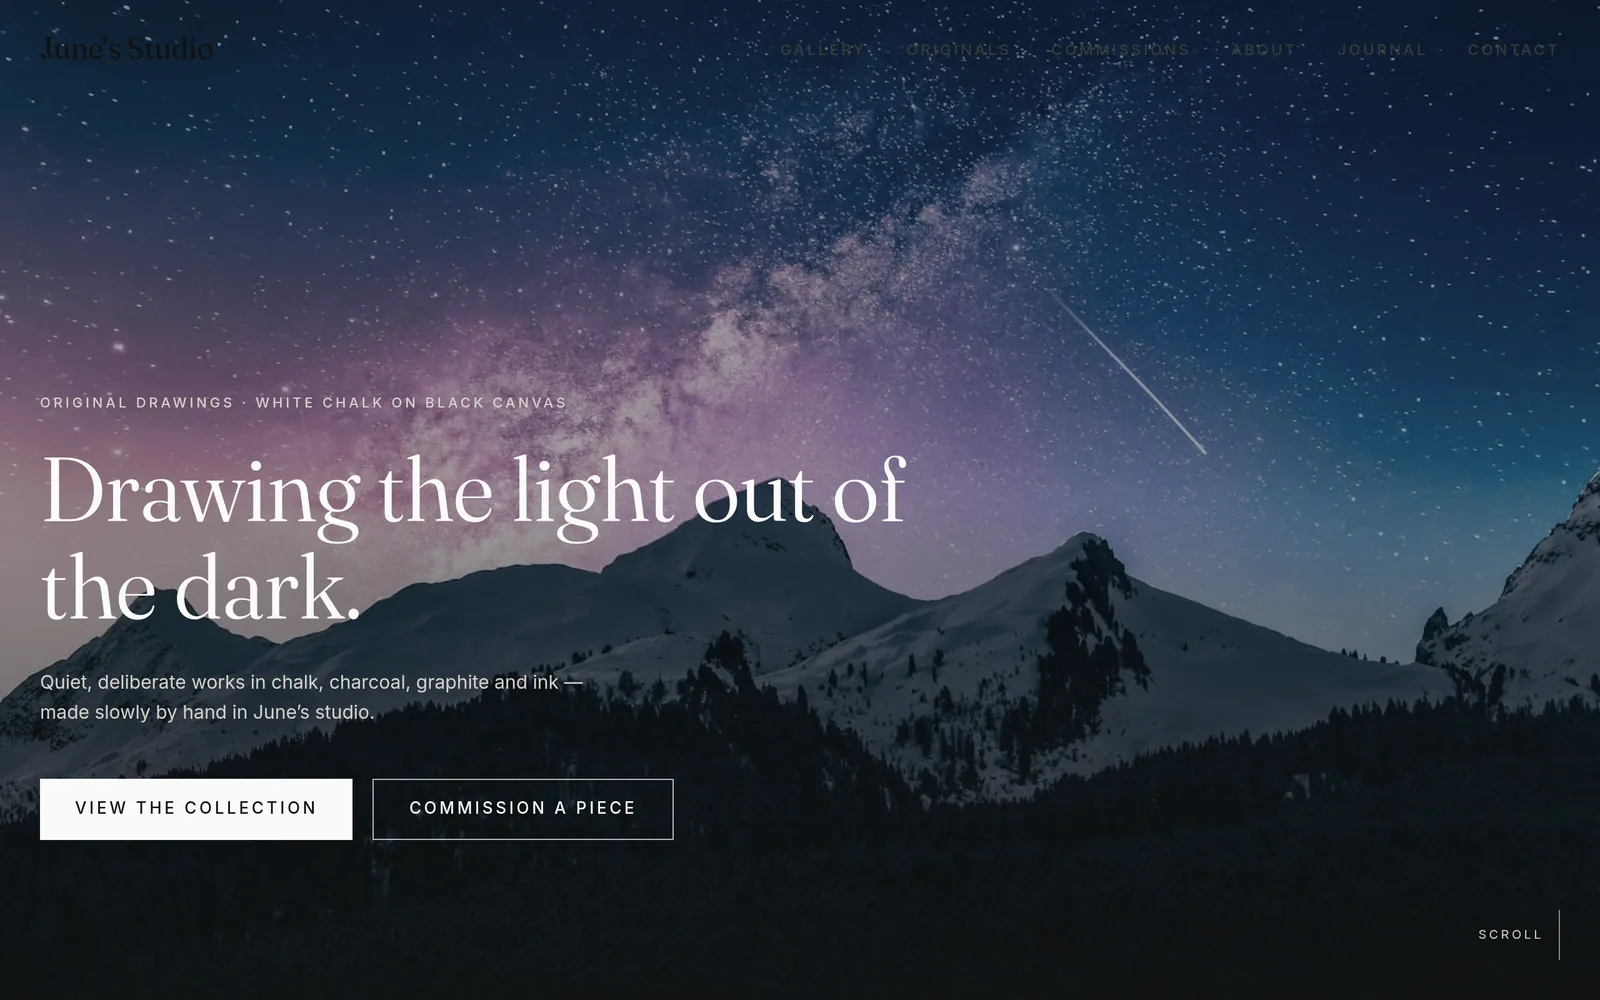
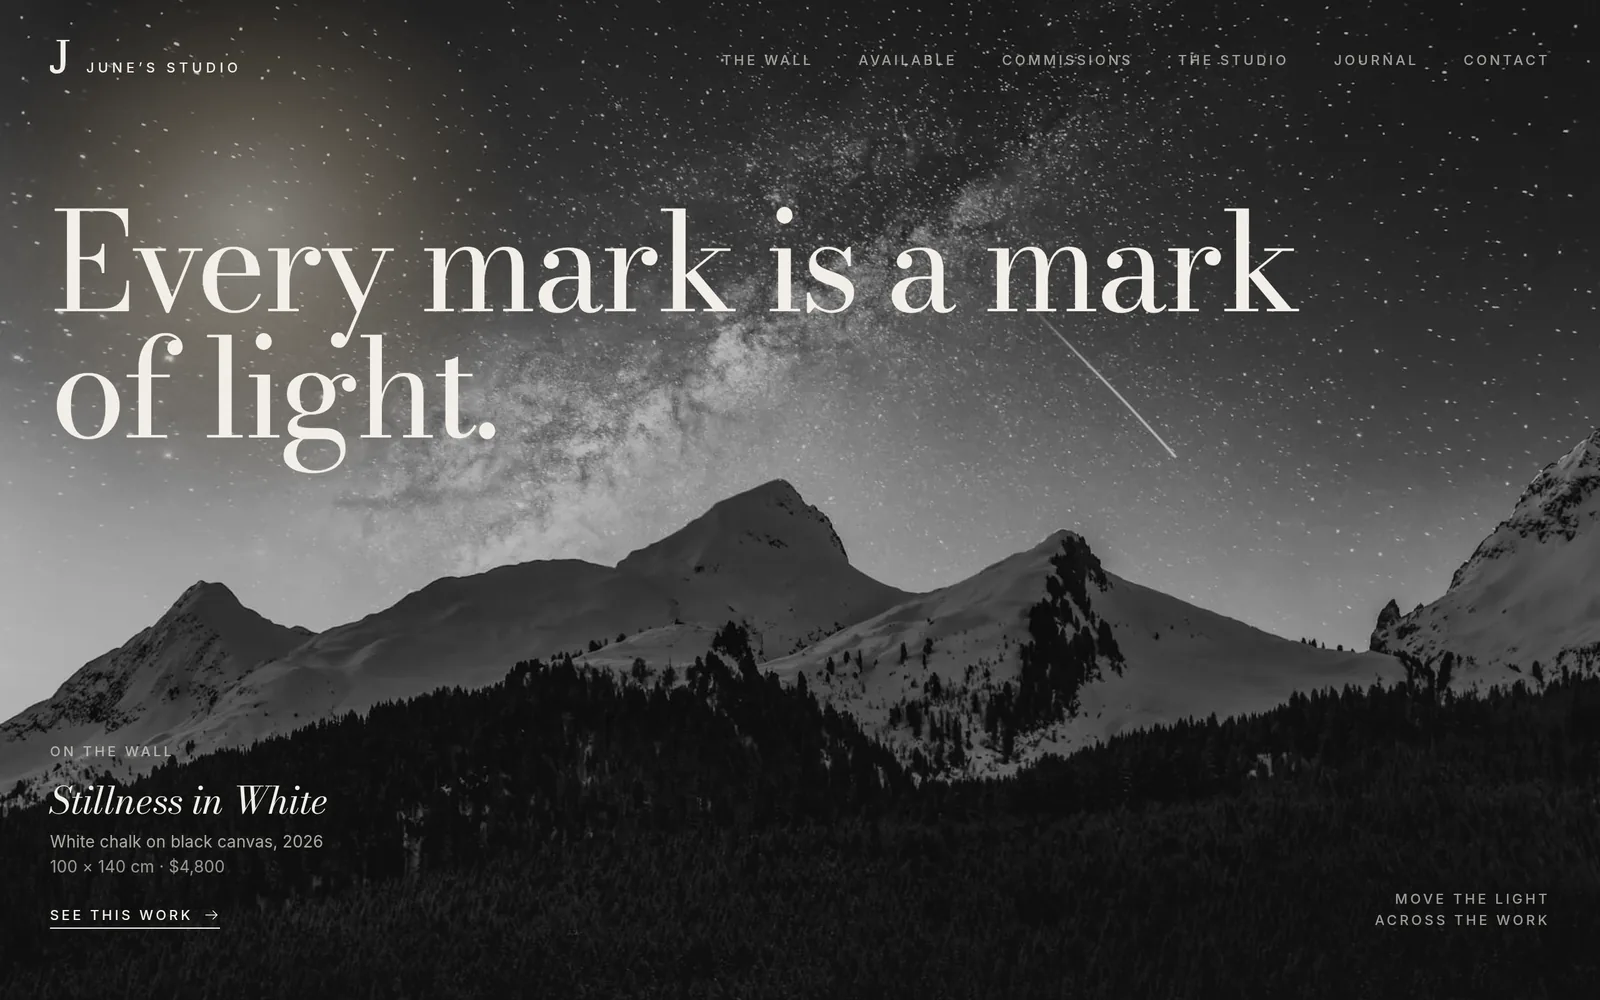
Refresh the demo screenshots and stop them going stale again
All five demos have been redesigned, so the work section was showing five
sites that no longer exist. Recaptured every screenshot and rewrote the
descriptions and tags to match what each build now actually does — a stay
planner for RJ's, a scope builder for Top Notch, a moving light source for
June's, a day-in-the-life walkthrough for Zinnia, a searchable register for
Virelle.

The real bug underneath: screenshots were referenced by path, so every version
of /work/rjs.webp shared one URL and Next's image optimiser kept serving the
first copy it cached. Replacing a file changed the disk and nothing on the
page, locally and in production alike. They are now imported as modules
(src/lib/shots.ts), which puts a content hash in the URL — a new screenshot is
a new URL, so a stale copy can never win. That also supplies the blur
placeholder, so the hand-maintained blur.json is gone along with the step of
remembering to keep it in sync.

optimize-shots.mjs is correspondingly simpler: drop PNGs in public/work, run
it, done.

diff --git a/src/lib/site.ts b/src/lib/site.ts
@@ -66,7 +66,6 @@ export type Project = {
   /** Two or three build highlights, shown as mono chips. */
   tags: readonly string[];
   url: string;
-  shot: string;
 };
 
 /**
@@ -81,13 +80,12 @@ export const projects: readonly Project[] = [
   {
     slug: "virelle",
     name: "Virelle",
-    sector: "Property · Listings",
+    sector: "Property · Private brokerage",
     // TODO: Vysan confirm/replace this description
     blurb:
-      "A listings build: filterable inventory, light and dark modes, and an enquiry path that survives a long browse.",
-    tags: ["Filterable listings", "Light / dark", "Enquiry flow"],
+      "A restraint build: a deliberately small portfolio presented like a private viewing, with a searchable register rather than a property portal.",
+    tags: ["Searchable register", "Editorial typography", "Discreet enquiry"],
     url: "https://sales-wb4k.vercel.app/",
-    shot: "/work/virelle.webp",
   },
   {
     slug: "rjs",
@@ -95,10 +93,9 @@ export const projects: readonly Project[] = [
     sector: "Hospitality · Bookings",
     // TODO: Vysan confirm/replace this description
     blurb:
-      "A booking build: rooms, amenities and reviews arranged to get someone from arriving to messaging in one tap.",
-    tags: ["WhatsApp bookings", "Gallery", "Reviews + map"],
+      "A conversion build: guests pick their dates and nights, see the real total, and get a WhatsApp message with those dates already written in it.",
+    tags: ["Stay planner", "Live pricing", "Pre-filled WhatsApp"],
     url: "https://rjs-guesthouse.vercel.app/",
-    shot: "/work/rjs.webp",
   },
   {
     slug: "topnotch",
@@ -106,21 +103,19 @@ export const projects: readonly Project[] = [
     sector: "Trades · Quotes",
     // TODO: Vysan confirm/replace this description
     blurb:
-      "A trades build: eight services laid out without clutter, priced packages, and a quote request that takes seconds.",
-    tags: ["Service grid", "Priced packages", "Quote funnel"],
+      "A spec-sheet build: eight trades set out like a job document, with a scope builder that turns a vague enquiry into a qualified one.",
+    tags: ["Scope builder", "Fixed package rates", "Job-sheet layout"],
     url: "https://top-notch-pi.vercel.app/",
-    shot: "/work/topnotch.webp",
   },
   {
     slug: "junes",
     name: "June's Studio",
-    sector: "Creative · Catalogue",
+    sector: "Creative · Gallery",
     // TODO: Vysan confirm/replace this description
     blurb:
-      "A catalogue build: individual items with prices and sold states, plus a commission enquiry for everything else.",
-    tags: ["Catalogue", "Sold states", "Commission form"],
+      "A materiality build: the work is chalk on black, so the cursor becomes a gallery light that rakes across each piece as you pass it.",
+    tags: ["Moving light source", "Hung-wall layout", "Commissions"],
     url: "https://junes-studio.vercel.app/",
-    shot: "/work/junes.webp",
   },
   {
     slug: "zinnia",
@@ -128,10 +123,9 @@ export const projects: readonly Project[] = [
     sector: "Childcare · Enquiries",
     // TODO: Vysan confirm/replace this description
     blurb:
-      "A trust build: warm, parent-facing, with the details a parent actually checks before booking a tour.",
-    tags: ["Programmes", "Trust cues", "Book-a-tour CTA"],
+      "A trust build: a scroll-through of one whole day, drop-off to pickup, answering the question every parent has before they will book a tour.",
+    tags: ["A day here", "Routine timeline", "Book-a-tour CTA"],
     url: "https://daycare-seven-ruby.vercel.app/",
-    shot: "/work/zinnia.webp",
   },
 ];
 

diff --git a/src/components/site/Who.tsx b/src/components/site/Who.tsx
@@ -2,13 +2,11 @@
 
 import Image from "next/image";
 import { owner, site, contact } from "@/lib/site";
-import blur from "@/lib/blur.json";
+import durban from "../../../public/durban.webp";
 import { SplitWords, FadeUp } from "./TextReveal";
 import { Button } from "@/components/ui/button";
 import { PinIcon, WhatsAppIcon } from "./Icons";
 import Magnetic from "./Magnetic";
-
-const blurMap = blur as Record<string, string>;
 
 const SPEC: readonly (readonly [string, string])[] = [
   ["Name", owner.name],
@@ -45,12 +43,11 @@ export default function Who() {
               */}
               <div className="relative aspect-[4/5] w-full overflow-hidden bg-ink-3">
                 <Image
-                  src="/durban.webp"
+                  src={durban}
                   alt="The arch of Moses Mabhida Stadium, Durban"
                   fill
                   sizes="(min-width: 1024px) 40vw, 92vw"
-                  placeholder={blurMap.durban ? "blur" : "empty"}
-                  blurDataURL={blurMap.durban}
+                  placeholder="blur"
                   className="object-cover"
                 />
                 {/* Drafting grid, so the plate reads as a document not a postcard. */}

diff --git a/src/lib/shots.ts b/src/lib/shots.ts
@@ -1,0 +1,28 @@
+import type { StaticImageData } from "next/image";
+
+import virelle from "../../public/work/virelle.webp";
+import rjs from "../../public/work/rjs.webp";
+import topnotch from "../../public/work/topnotch.webp";
+import junes from "../../public/work/junes.webp";
+import zinnia from "../../public/work/zinnia.webp";
+
+/**
+ * Demo screenshots, imported rather than referenced by path.
+ *
+ * This matters more than it looks. Referencing `/work/rjs.webp` as a string
+ * gives every version of that file the same URL, so Next's image optimiser
+ * keeps serving the first one it cached — which meant replacing a screenshot
+ * changed the file on disk and nothing on the page, on the dev server and in
+ * production alike. A static import puts a content hash in the URL, so a new
+ * screenshot is a new URL and the stale copy can never win.
+ *
+ * It also carries width, height and a generated blur placeholder, which is why
+ * there is no longer a hand-maintained blur.json to keep in sync.
+ */
+export const shots: Record<string, StaticImageData> = {
+  virelle,
+  rjs,
+  topnotch,
+  junes,
+  zinnia,
+};

diff --git a/src/components/site/ProjectCard.tsx b/src/components/site/ProjectCard.tsx
@@ -3,11 +3,9 @@
 import Image from "next/image";
 import { useEffect, useRef, useState } from "react";
 import type { Project } from "@/lib/site";
-import blur from "@/lib/blur.json";
+import { shots } from "@/lib/shots";
 import { ArrowOutIcon } from "./Icons";
 import { cn } from "@/lib/utils";
-
-const blurMap = blur as Record<string, string>;
 
 /**
  * One demonstration build.
@@ -110,12 +108,11 @@ export default function ProjectCard({
 
         <div ref={frameRef} className="relative aspect-[16/10] w-full overflow-hidden">
           <Image
-            src={project.shot}
+            src={shots[project.slug]}
             alt={`Screenshot of the ${project.name} demo build`}
             fill
             sizes="(min-width: 1024px) 60vw, 92vw"
-            placeholder={blurMap[project.slug] ? "blur" : "empty"}
-            blurDataURL={blurMap[project.slug]}
+            placeholder="blur"
             className={cn(
               "object-cover object-top transition-all duration-[900ms] ease-[cubic-bezier(0.16,1,0.3,1)]",
               "scale-[1.02] group-hover/card:scale-100",
